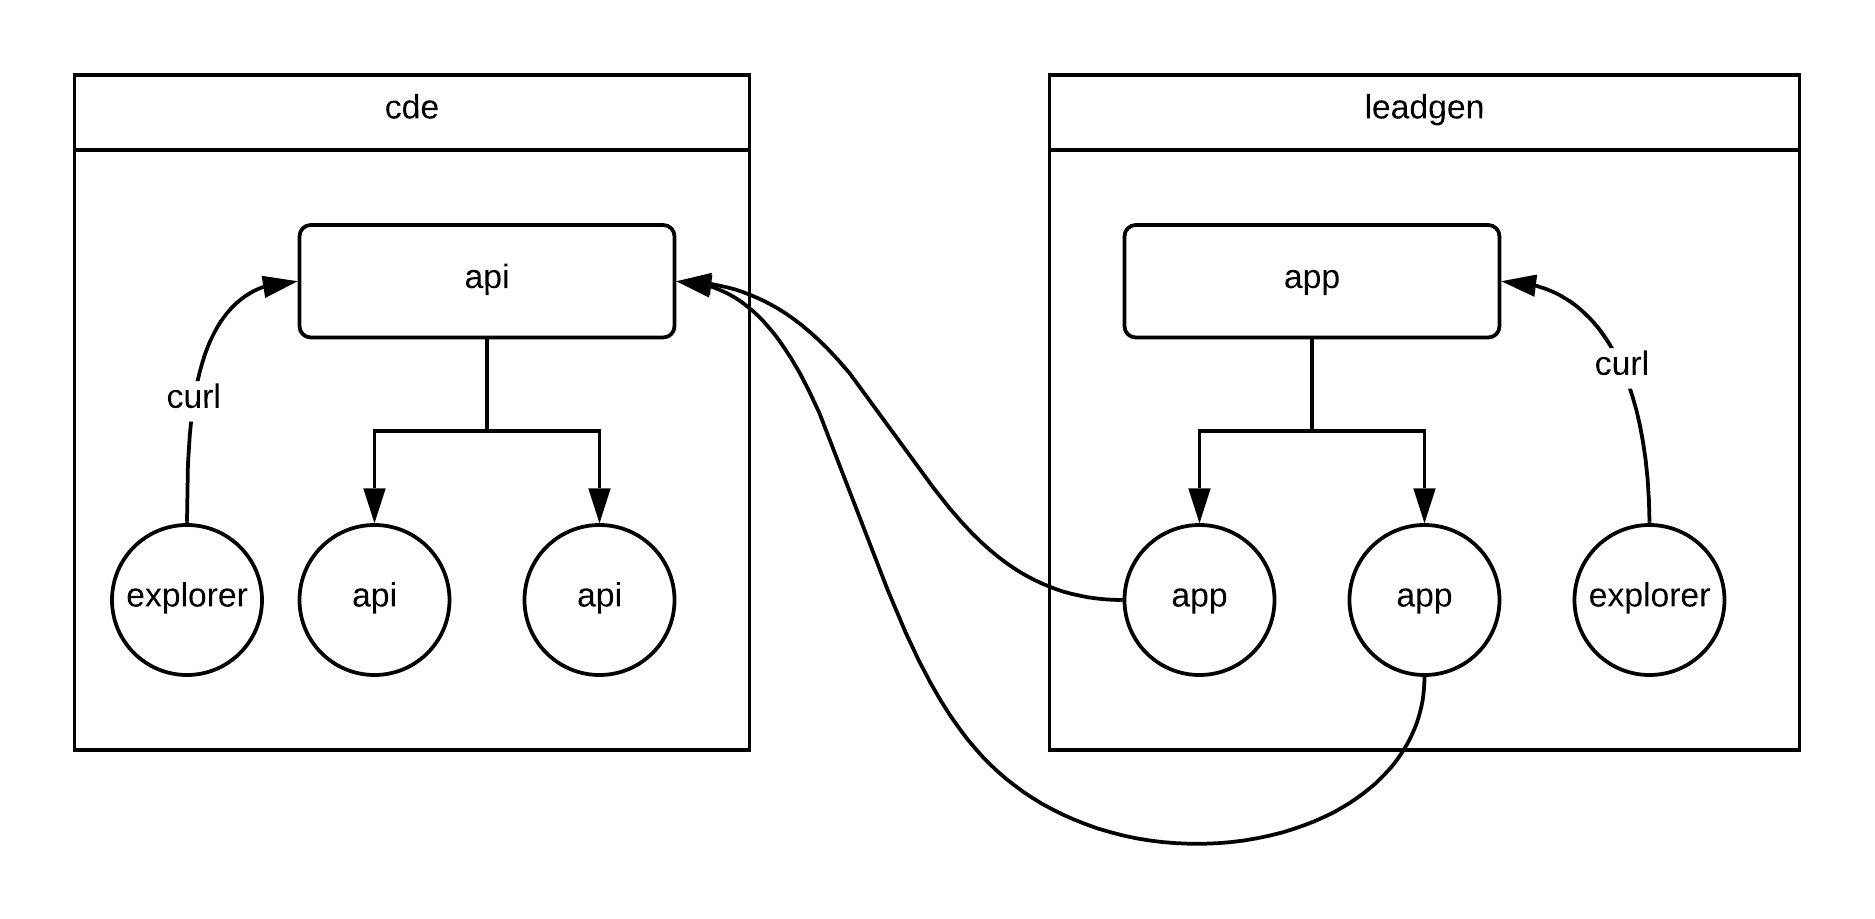
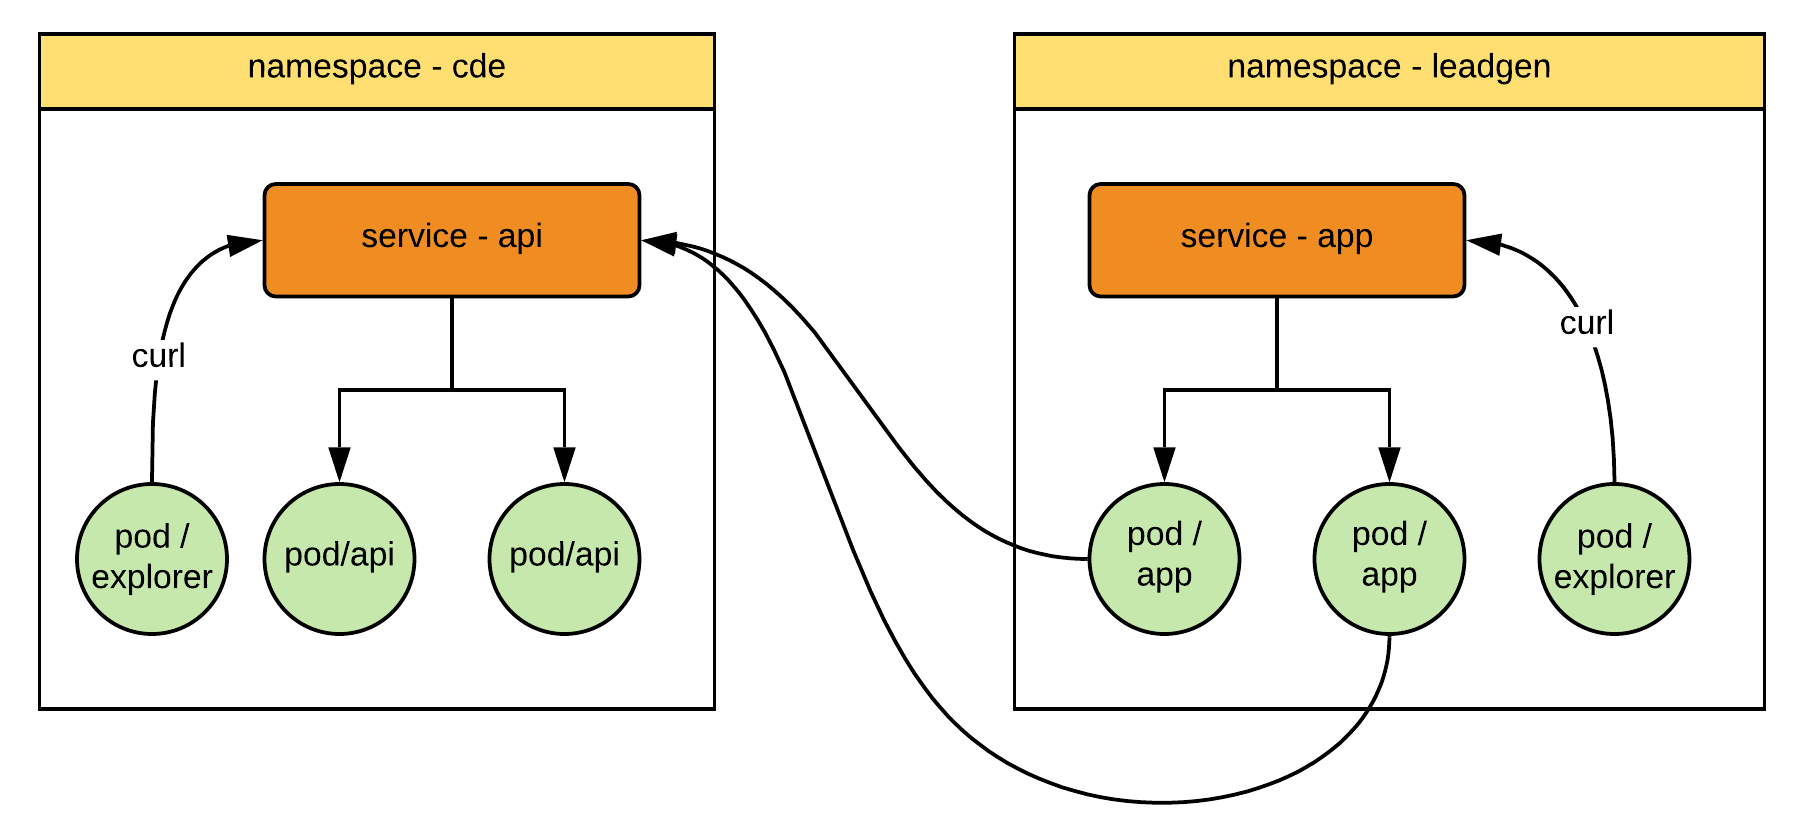
Expose Your services

diff --git a/kubernetes-exposeservice/nodeport-service.md b/kubernetes-exposeservice/nodeport-service.md
@@ -1,0 +1,23 @@
+Let's explore service discovery
+
+![CDE](./assets/nodeport-services.png)
+
+## Expose the API (cde) on NodePort
+
+`kubectl -n cde apply -f nodeport-api-service.yaml`{{execute}}
+
+`ip -f inet a | grep "global ens3" | awk '{print $2}'| sed "s/\/16//g"`{{execute}}
+
+`HOST_IP=`{{copy}}
+
+`CDE_NP=30081`{{execute}}
+
+`curl -X http://$HOST_IP:$CDE_NP/api/guid`{{execute}}
+
+## Expose the APP (leadgen) on NodePort
+
+`kubectl -n leadgen apply -f nodeport-app-service.yaml`{{execute}}
+
+`LEADGEN_NP=30081`{{execute}}
+
+`curl -X http://$HOST_IP:$LEADGEN_NP/api/guid`{{execute}}

diff --git a/kubernetes-exposeservice/recap.md b/kubernetes-exposeservice/recap.md
@@ -1,0 +1,29 @@
+Let's recap what we learned in the previous session.
+
+We created cde service
+
+![CDE](./assets/cde.png)
+
+`kubectl apply -f service-cde.yaml`{{execute}}
+
+See what got created
+
+`kubectl -n cde get all`{{execute}}
+
+Wait until all pods get created
+
+`kubectl -n cde get pods -o wide -w`{{execute}}
+
+We created leadgen service
+
+![CDE](./assets/leadgen.png)
+
+`kubectl apply -f service-leadgen.yaml`{{execute}}
+
+See what got created
+
+`kubectl -n leadgen get all`{{execute}}
+
+Wait until all pods get created
+
+`kubectl -n leadgen get pods -o wide -w`{{execute}}

diff --git a/kubernetes-exposeservice/intro.md b/kubernetes-exposeservice/intro.md
@@ -1,0 +1,3 @@
+Welcome to Exposing your service(s) in Kubernetes @ Prospa
+
+  -- by Ram T and Anton V

diff --git a/kubernetes-exposeservice/finish.md b/kubernetes-exposeservice/finish.md
@@ -1,0 +1,1 @@
+Thank you
